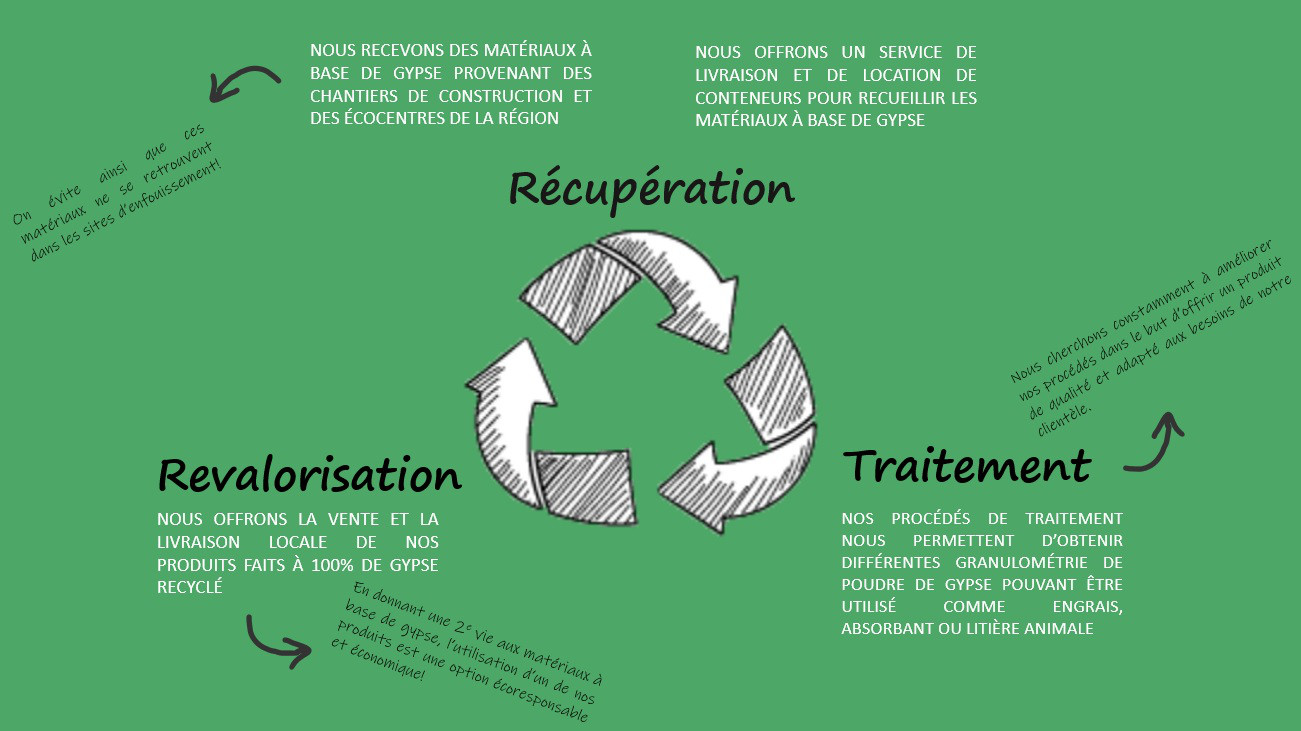
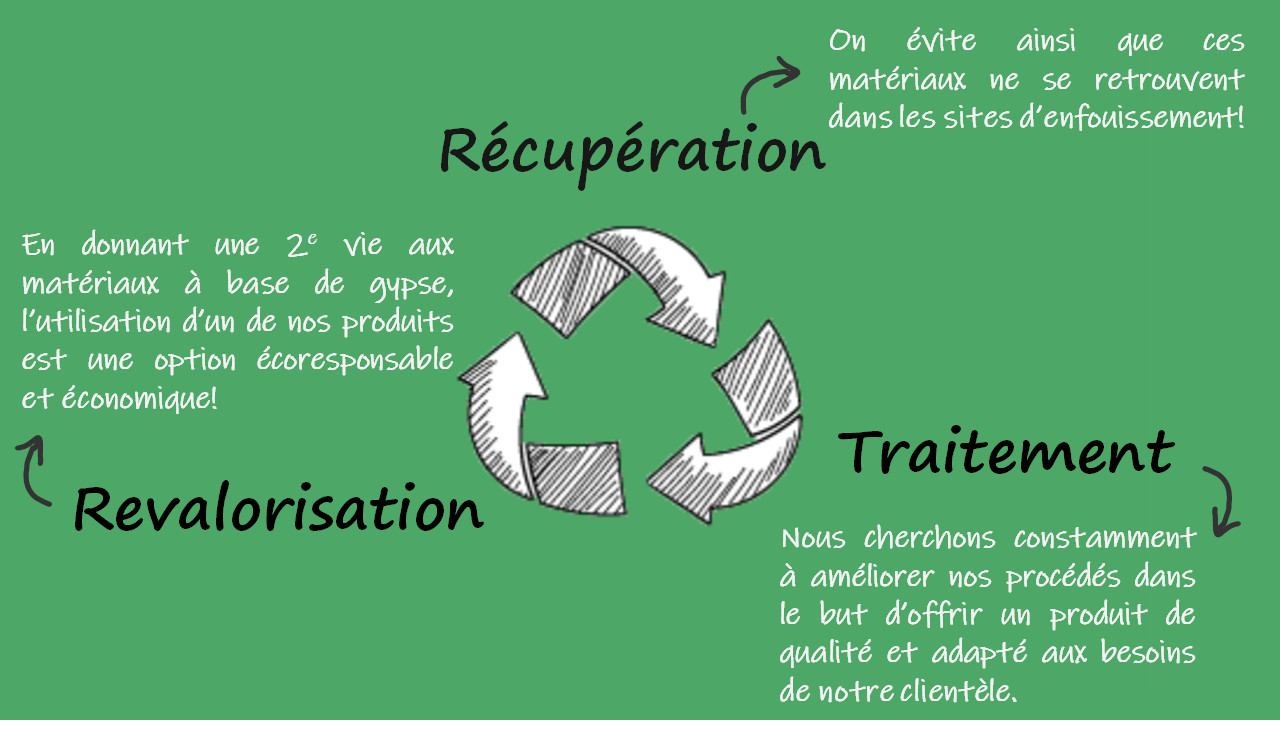
Change texts

Changed region(s): [[0.0, 0.0301, 1.0, 0.8126], [0.0, 0.632, 1.0, 1.0], [0.0, 0.1806, 0.3438, 0.4514]]

diff --git a/index.html b/index.html
@@ -121,8 +121,7 @@
                   Revaloriser la matière, une solution durable.
                 </h1>
                 <p class="text-light fs-5 mb-4 pb-3">
-                  Récupération et gestion du gypse et sa transformation en
-                  engrais.
+                  Récupération et gestion du gypse.
                 </p>
                 <a href="#about" class="btn btn-primary rounded-pill py-3 px-5">En savoir plus</a>
               </div>
@@ -186,7 +185,7 @@
               Nous offrons une alternative à l’élimination du gypse dans les
               sites conventionnels d’enfouissement en recyclant et en
               conditionnant les matériaux à base de gypse. Cela permet à nos
-              clients de faire des économies tout en redonnant à la nature.
+              clients de faire des économies en tout respect de la nature.
             </p>
 
             <p>
@@ -275,7 +274,7 @@
               Fondée en 2013 par M. Jacques Laberge, un producteur laitier
               nouvellement retraité, Gypse du Fjord veut résoudre le problème
               de présence de gypse dans les sites d’enfouissement tout en
-              offrant aux agriculteurs de la région alternative écologique et
+              offrant aux agriculteurs de la région une alternative écologique et
               économique aux engrais traditionnels.
             </p>
             <p>
@@ -331,22 +330,13 @@
           <p class="text-primary text-uppercase mb-2 font-weight-bold">
             // Nos services
           </p>
-          <h1 class="display-6 mb-4">Ce que nous offrons à nos clients?</h1>
+          <h1 class="display-6 mb-4">Ce que nous offrons à nos clients..</h1>
           <p class="mb-5">
             Chez Gypse du Fjord, rien ne se perd car tout se valorise. Notre
             offre de service se divise en 2 parties distinctes :
-            <strong>la récupération </strong>et
-            <strong>la valorisation</strong>. Nous offrons aux entreprises en
-            construction et aux écocentres un service de réception des
-            matériaux à base de gypse issus de la construction et de la
-            rénovation dans notre usine de Laterrière. Nous offrons aussi un
-            service de location et de livraison de conteneurs servant à
-            récupérer les matériaux à base de gypse directement sur les
-            chantiers de construction. La matière récupérée et traitée dans
-            notre usine se transforme alors en l’un de nos différents
-            produits, soit l’absorbant à l’huile, la litière ainsi que
-            l’engrais. Nos produits sont offerts au détail ou en vrac, selon
-            les besoins de nos clients.
+            la <strong>récupération </strong>et
+            la <strong>valorisation</strong>. La matière récupérée et traitée dans notre usine se transforme en l’un de
+            nos différents produits dont nous offrons la vente au détail et en vrac.
           </p>
           <div class="row gy-5 gx-4">
             <div class="col-sm-6 wow fadeIn" data-wow-delay="0.1s">
@@ -354,40 +344,41 @@
                 <div class="flex-shrink-0 btn-square bg-primary rounded-circle me-3">
                   <i class="fa fa-bread-slice text-white"></i>
                 </div>
-                <h5 class="mb-0">Gypses de qualités</h5>
+                <h5 class="mb-0">Service de conditionnement</h5>
               </div>
-              <span>Magna sea eos sit dolor, ipsum amet ipsum lorem diam
-                eos</span>
+              <span>Nous recevons des matériaux à base de gypse provenant des chantiers de construction et des
+                écocentres de la région.
+              </span>
             </div>
             <div class="col-sm-6 wow fadeIn" data-wow-delay="0.2s">
               <div class="d-flex align-items-center mb-3">
                 <div class="flex-shrink-0 btn-square bg-primary rounded-circle me-3">
                   <i class="fa fa-birthday-cake text-white"></i>
                 </div>
-                <h5 class="mb-0">Livraison</h5>
+                <h5 class="mb-0">Location de conteneurs</h5>
               </div>
-              <span>Magna sea eos sit dolor, ipsum amet ipsum lorem diam
-                eos</span>
+              <span>Nous offrons un service de livraison et de location de conteneurs pour recueillir les matériaux à
+                base de gypse directement sur les chantiers.</span>
             </div>
             <div class="col-sm-6 wow fadeIn" data-wow-delay="0.3s">
               <div class="d-flex align-items-center mb-3">
                 <div class="flex-shrink-0 btn-square bg-primary rounded-circle me-3">
                   <i class="fa fa-cart-plus text-white"></i>
                 </div>
-                <h5 class="mb-0">Location de conteneur</h5>
+                <h5 class="mb-0">Traitement de la matière</h5>
               </div>
-              <span>Magna sea eos sit dolor, ipsum amet ipsum lorem diam
-                eos</span>
+              <span>Nos procédés de traitement nous permettent d'obtenir différentes granulométries de poudre de gypse
+                pouvant être destinée à différents usages. (litière, engrais ou absorbant)
+              </span>
             </div>
             <div class="col-sm-6 wow fadeIn" data-wow-delay="0.4s">
               <div class="d-flex align-items-center mb-3">
                 <div class="flex-shrink-0 btn-square bg-primary rounded-circle me-3">
                   <i class="fa fa-truck text-white"></i>
                 </div>
-                <h5 class="mb-0">Application du gypse</h5>
+                <h5 class="mb-0">Vente de produits</h5>
               </div>
-              <span>Magna sea eos sit dolor, ipsum amet ipsum lorem diam
-                eos</span>
+              <span>Nous offrons la vente et la livraison locale de nos produits faits à 100% de gypse recyclé.</span>
             </div>
           </div>
         </div>
@@ -411,7 +402,7 @@
       <div class="text-center mx-auto mb-5 wow fadeInUp" data-wow-delay="0.1s" style="max-width: 500px">
         <p class="text-primary text-uppercase mb-2">// Nos produits</p>
         <h1 class="display-6 mb-4">
-          Découvrer nos produits les plus populaires
+          Découvrez nos produits les plus populaires
         </h1>
       </div>
       <div class="row g-4">
@@ -422,7 +413,8 @@
               <span>Notre engrais est fait de gypse moulu. Il est une excellente source de calcium et de soufre. Il
                 permet au sol de retenir l’eau ainsi que les nutriments et favorise l’enracinement en réduisant la
                 compaction du sol. Contrairement à la chaux, il ne modifie pas le pH du milieu où il est utilisé.
-                Disponible au détail, en format de 2kg ou 15kg et en vrac.</span>
+                Disponible en format de 2kg, 15kg et en vrac.
+              </span>
             </div>
             <div class="position-relative mt-auto">
               <img class="img-fluid" src="img/product-1.jpg" alt="" />
@@ -434,10 +426,8 @@
           <div class="product-item d-flex flex-column bg-light rounded overflow-hidden h-100">
             <div class="text-center p-4">
               <h3 class="mb-3">Absorbant</h3>
-              <span>La capacité d’absorption du granule de gypse est d’environ
-                35%. Produit à partir de matériaux à 100% recyclés, notre
-                produit est un choix écoresponsable pour absorber les
-                déversements d’huile. Disponible en format de 15kg.</span>
+              <span>La capacité d’absorption de la granule de gypse est d’environ 35%. Fait à partir de matériaux à 100%
+                recyclés, notre produit est un choix écoresponsable pour absorber les déversements.</span>
             </div>
             <div class="position-relative mt-auto">
               <img class="img-fluid" src="img/product-2.jpg" alt="" />
@@ -449,7 +439,7 @@
           <div class="product-item d-flex flex-column bg-light rounded overflow-hidden h-100">
             <div class="text-center p-4">
               <h4 class="mb-3">Litière</h4>
-              <span>Le pouvoir absorbant du granule de gypse permet de réduire le taux d’humidité de la litière animale
+              <span>Le pouvoir absorbant de la granule de gypse permet de réduire le taux d’humidité de la litière animale
                 et sa composition chimique aide à réduire l’émanation d’ammoniac. Il s’agit d’un amendement très
                 économique et comportant de nombreux bénéfices à la litière traditionnellement utilisée. Disponible en
                 format de 15kg et en vrac.</span>
